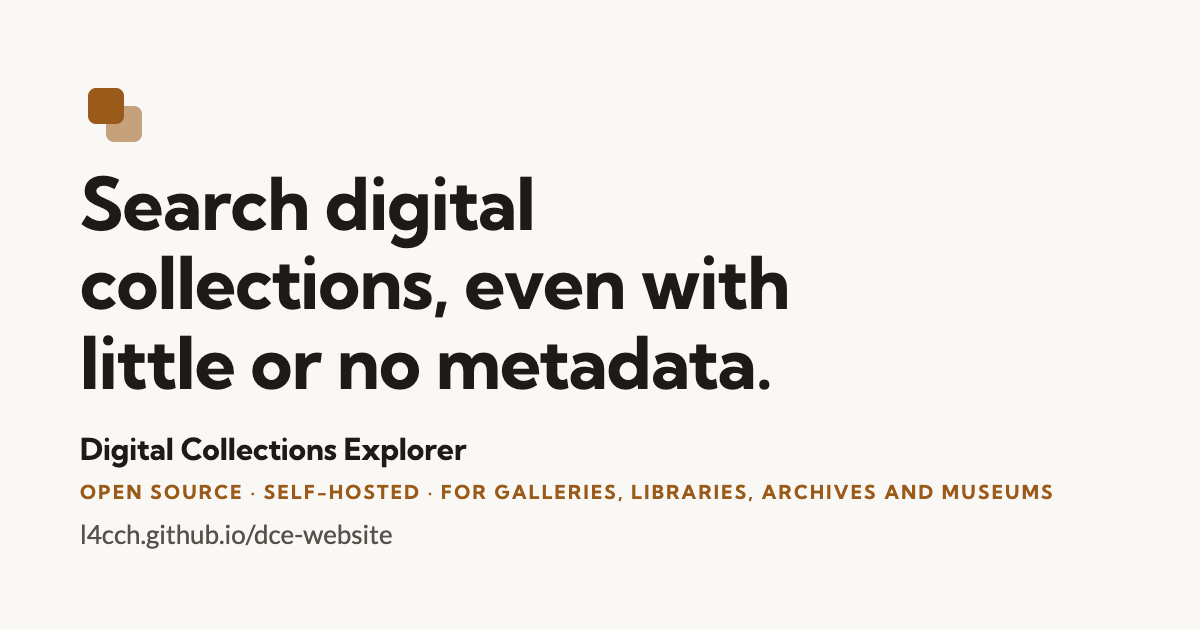
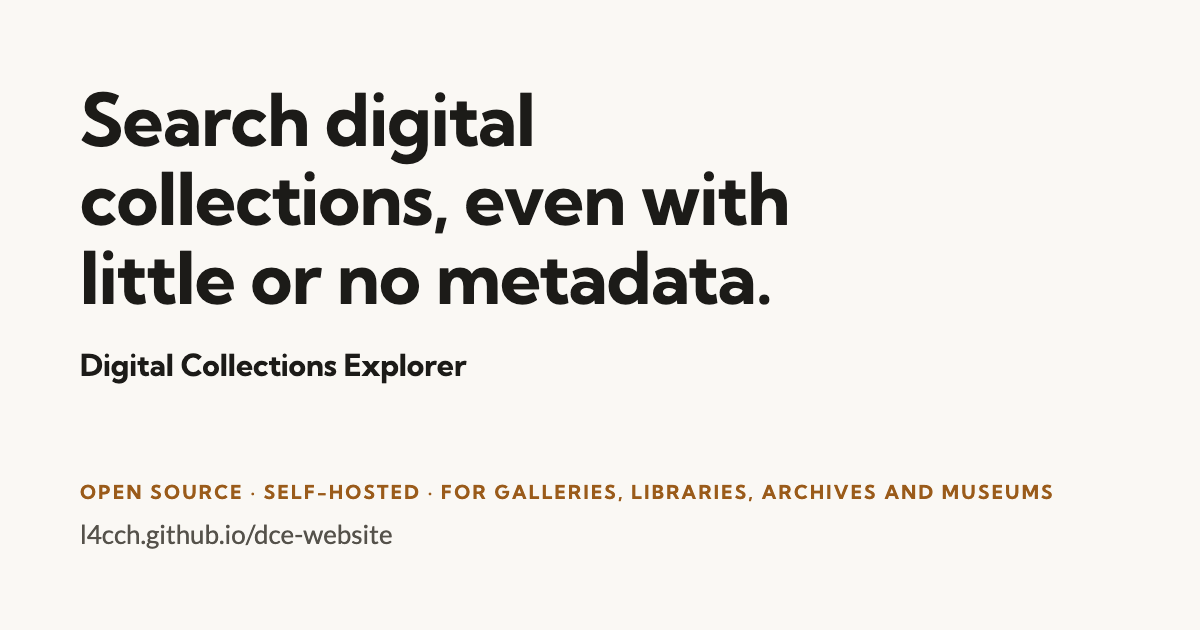
Keep the page to what a visitor needs: the name alone, a showcase to try, and three ways to start that lead to the documentation, without the interface section, the Zenodo DOI or the preprint

Changed region(s): [[0.0617, 0.3921, 0.6783, 0.6333], [0.0617, 0.1206, 0.6783, 0.3921], [0.0617, 0.6937, 0.4008, 0.754]]

diff --git a/src/site.ts b/src/site.ts
@@ -20,7 +20,6 @@ export const site = {
   goodFirstIssuesUrl: `${repoUrl}/issues?q=is%3Aissue+is%3Aopen+label%3A%22good+first+issue%22`,
   skillUrl: `${repoUrl}/tree/main/skills/dce-setup`,
   containerImage: 'ghcr.io/l4cch/digital-collections-explorer',
-  zenodoUrl: 'https://doi.org/10.5281/zenodo.15744570',
   paper: {
     title:
       'Digital Collections Explorer: An Open-Source, Multimodal Viewer for Searching Digital Collections',
@@ -29,7 +28,6 @@ export const site = {
     article: 'e14',
     doi: '10.1017/chr.2025.10017',
     url: 'https://doi.org/10.1017/chr.2025.10017',
-    arxivUrl: 'https://arxiv.org/abs/2507.00961',
     year: 2025,
     authors: ['Ying-Hsiang Huang', 'Benjamin Charles Germain Lee'],
   },
@@ -50,7 +48,6 @@ export type Medium = {
   option?: string;
   lead: string;
   features: string[];
-  showcase?: string;
 };
 
 export const media: Medium[] = [
@@ -66,7 +63,6 @@ export const media: Medium[] = [
       'Every object has its own page, with its catalog record, similar images, where else it appears and a link back to the original record',
       'Search by text or by uploading a picture, or start from suggested searches set by the institution',
     ],
-    showcase: 'loc-maps',
   },
   {
     id: '3d',
@@ -101,28 +97,30 @@ export const media: Medium[] = [
       'Loads only the part of the image in view, so a large sheet opens quickly',
       'Shows the plain image if the server does not answer',
     ],
-    showcase: 'loc-maps',
   },
 ];
 
 export type Showcase = {
   id: string;
   name: string;
-  source: string;
+  summary: string;
   url: string;
   image: string;
   alt: string;
-  facts: string[];
+  tries: string[];
 };
 
 export const showcases: Showcase[] = [
   {
     id: 'loc-maps',
-    name: 'Historical Maps',
-    source: 'Maps from the Library of Congress',
+    name: 'Library of Congress Maps',
+    summary: '562,842 maps from the Geography and Map Division, searched by what is drawn on them.',
     url: 'https://digital-collections-explorer.com/',
     image: '/showcases/loc-maps.jpg',
-    alt: 'Search results for a harbor with a breakwater: charts and views of harbors',
-    facts: ['562,842 map images', 'Deep zoom'],
+    alt: "Search results for a bird's-eye view of a city: panoramic views of American cities",
+    tries: ["a bird's-eye view of a city", 'a battlefield map', 'a globe'],
   },
 ];
+
+export const searchUrl = (showcase: Showcase, query: string) =>
+  `${showcase.url}#/search?q=${encodeURIComponent(query).replace(/%20/g, '+')}`;

diff --git a/scripts/og.html b/scripts/og.html
@@ -28,10 +28,6 @@
         color: var(--ink);
         font-family: 'Lato', sans-serif;
       }
-      .mark { position: relative; width: 72px; height: 72px; }
-      .mark span { position: absolute; width: 36px; height: 36px; border-radius: 8px; background: var(--accent); }
-      .mark span:first-child { top: 26px; left: 26px; opacity: 0.55; }
-      .mark span:last-child { top: 8px; left: 8px; }
       h1 {
         font-family: 'Kumbh Sans', sans-serif;
         font-weight: 700;
@@ -53,7 +49,6 @@
     </style>
   </head>
   <body>
-    <div class="mark"><span></span><span></span></div>
     <div>
       <h1>Search digital collections, even with little or no metadata.</h1>
       <p class="name">Digital Collections Explorer</p>

diff --git a/src/pages/llms.txt.ts b/src/pages/llms.txt.ts
@@ -44,12 +44,11 @@ ${media.map((m) => `- ${m.name}${m.option ? ` (\`--with=${m.option}\`)` : ''}: $
 
 ## Showcases
 
-${showcases.map((s) => `- [${s.name}](${s.url}): ${s.source}; ${s.facts.join(', ')}.`).join('\n')}
+${showcases.map((s) => `- [${s.name}](${s.url}): ${s.summary}`).join('\n')}
 
 ## Research
 
 - [Paper in ${site.paper.journal}, vol. ${site.paper.volume}, ${site.paper.article} (${site.paper.year})](${site.paper.url}): ${site.paper.title}
-- [Software DOI on Zenodo](${site.zenodoUrl})
 - [${site.lab.name}](${site.lab.url})
 
 ## License

diff --git a/src/content/docs/docs/kinds-of-material.md b/src/content/docs/docs/kinds-of-material.md
@@ -11,7 +11,7 @@ npm run setup -- --with=pdf,3d     # or says so
 npm run setup -- --with=none       # images only
 ```
 
-Setup writes the choice to `config.json` as `"media"`, installs the packages of the options chosen, builds the interface and prints the Python packages to install. Run it again to change the choice.
+Options combine: list as many as the collection holds, separated by commas. Setup writes the choice to `config.json` as `"media"`, installs the packages of the options chosen, builds the interface and prints the Python packages to install. Run it again to change the choice.
 
 | Option | For | Python packages |
 | --- | --- | --- |

diff --git a/README.md b/README.md
@@ -2,7 +2,7 @@
 
 The website for [Digital Collections Explorer](https://github.com/L4CCH/digital-collections-explorer),
 at https://l4cch.github.io/dce-website/: what it is, who it is for, how it works, the collections
-searched with it, what a site can show, three ways to start, the wishlist, and how to cite it.
+searched with it, three ways to start, the wishlist, and how to cite it.
 Developer documentation lives under `/docs/`. It also serves `llms.txt` and a sitemap.
 
 Built with [Astro](https://astro.build) and [Starlight](https://starlight.astro.build) for the
